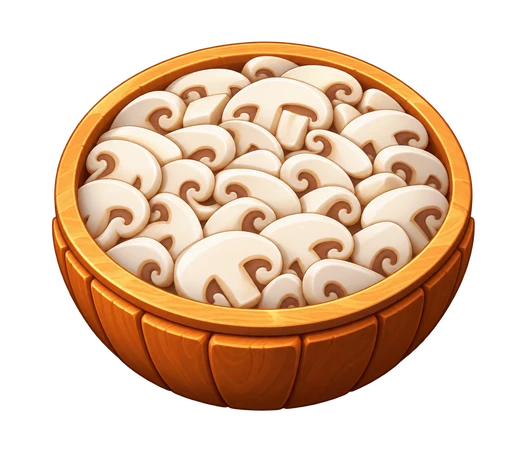
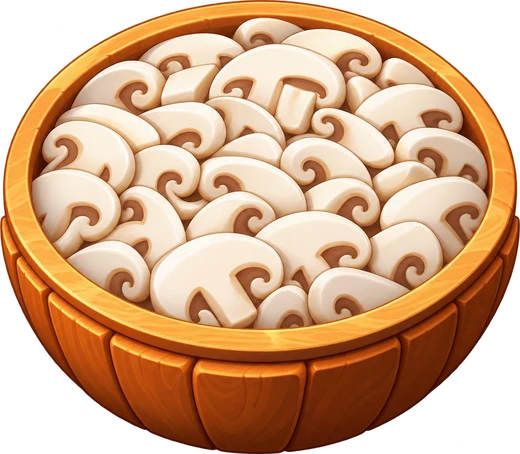
Topping bowls all the same size

diff --git a/Final/index.html b/Final/index.html
@@ -1084,6 +1084,8 @@ header.top{z-index:450!important}   /* home + QA stay tappable above the QA pane
 .katori.newbowl{display:grid;place-items:center}
 .katori.newbowl img{width:100%;height:100%;object-fit:contain;object-position:50% 100%;filter:drop-shadow(0 6px 6px rgba(60,30,10,.35))}
 .tut .tp img{width:92%!important;aspect-ratio:auto!important;height:auto!important}
+.katori.newbowl{display:flex!important;align-items:flex-end;justify-content:center}
+.katori.newbowl img{width:100%!important;height:auto!important;max-height:100%}   /* every bowl the same width */
 </style>
 
 <svg class="frond l" viewBox="0 0 340 300" aria-hidden="true">
@@ -1675,9 +1677,9 @@ function showKatoris(){
     const b=COCO.bowls[i], box={x:b.cx-b.ix-30, y:b.cy-b.iy*1.35, w:b.ix*2+60, h:b.iy*2.6};
     const [rx,ry,rw,rh]=[[216,172,332,309],[656,172,332,309],[206,498,340,320],[648,498,348,320]][i];   // the bowl spots on the table
     return `<div class="bowl katori newbowl${S.topping===t.k?' sel':''}" data-top="${t.k}" role="button" tabindex="0" aria-label="${t.name}"
-        style="left:${pct(rx-14,COCO.W)};top:${pct(ry-6,COCO.H)};width:${pct(rw+28,COCO.W)};height:${pct(rh+12,COCO.H)}">
+        style="left:${pct(rx+rw/2-170,COCO.W)};top:${pct(ry+rh-300,COCO.H)};width:${pct(340,COCO.W)};height:${pct(300,COCO.H)}">
         <img src="assets/draft2/topbowl_${t.k}.webp" alt=""></div>
-      <span class="bowl-label" style="left:${pct(rx+rw/2,COCO.W)};top:${pct(ry+rh-10,COCO.H)}">${t.name}</span>`;
+      <span class="bowl-label" style="left:${pct(rx+rw/2,COCO.W)};top:${pct(ry+rh+4,COCO.H)}">${t.name}</span>`;
   }).join("");
   $("tray").querySelectorAll("img.cbowl").forEach(e=>e.remove());   // the filled bowls replace the empty ones
   $("slots").querySelectorAll(".katori").forEach(b=>{

diff --git a/level1_draft2.html b/level1_draft2.html
@@ -1071,6 +1071,8 @@ header.top{z-index:450!important}   /* home + QA stay tappable above the QA pane
 .katori.newbowl{display:grid;place-items:center}
 .katori.newbowl img{width:100%;height:100%;object-fit:contain;object-position:50% 100%;filter:drop-shadow(0 6px 6px rgba(60,30,10,.35))}
 .tut .tp img{width:92%!important;aspect-ratio:auto!important;height:auto!important}
+.katori.newbowl{display:flex!important;align-items:flex-end;justify-content:center}
+.katori.newbowl img{width:100%!important;height:auto!important;max-height:100%}   /* every bowl the same width */
 </style>
 
 <svg class="frond l" viewBox="0 0 340 300" aria-hidden="true">
@@ -1662,9 +1664,9 @@ function showKatoris(){
     const b=COCO.bowls[i], box={x:b.cx-b.ix-30, y:b.cy-b.iy*1.35, w:b.ix*2+60, h:b.iy*2.6};
     const [rx,ry,rw,rh]=[[216,172,332,309],[656,172,332,309],[206,498,340,320],[648,498,348,320]][i];   // the bowl spots on the table
     return `<div class="bowl katori newbowl${S.topping===t.k?' sel':''}" data-top="${t.k}" role="button" tabindex="0" aria-label="${t.name}"
-        style="left:${pct(rx-14,COCO.W)};top:${pct(ry-6,COCO.H)};width:${pct(rw+28,COCO.W)};height:${pct(rh+12,COCO.H)}">
+        style="left:${pct(rx+rw/2-170,COCO.W)};top:${pct(ry+rh-300,COCO.H)};width:${pct(340,COCO.W)};height:${pct(300,COCO.H)}">
         <img src="assets/draft2/topbowl_${t.k}.webp" alt=""></div>
-      <span class="bowl-label" style="left:${pct(rx+rw/2,COCO.W)};top:${pct(ry+rh-10,COCO.H)}">${t.name}</span>`;
+      <span class="bowl-label" style="left:${pct(rx+rw/2,COCO.W)};top:${pct(ry+rh+4,COCO.H)}">${t.name}</span>`;
   }).join("");
   $("tray").querySelectorAll("img.cbowl").forEach(e=>e.remove());   // the filled bowls replace the empty ones
   $("slots").querySelectorAll(".katori").forEach(b=>{
